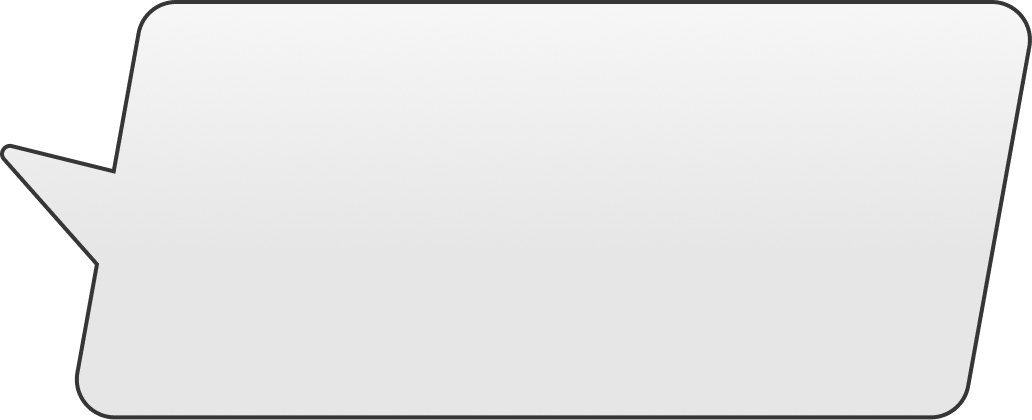
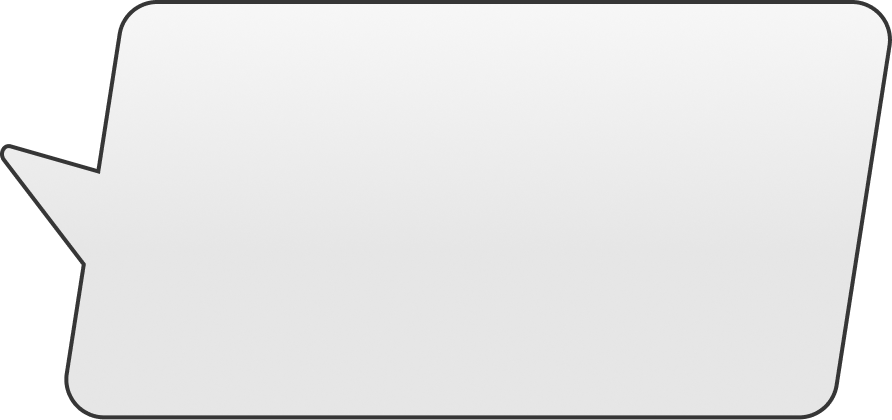
교환소 에셋 변경

diff --git a/src/pages/WeeklyPage.jsx b/src/pages/WeeklyPage.jsx
@@ -8,7 +8,7 @@ const gradeColor = (g) => GRADE_TABLE.find((x) => x.grade === g)?.color ?? '#9ca
 
 function Pedestal({ item }) {
   return (
-    <div className="relative w-[24%] flex-none">
+    <div className="relative w-[22%] flex-none">
       {/* 캡슐 — 아이템보다 위 레이어 */}
       <img src="/assets/ui/Pedestal.png" alt=""
            className="relative z-10 block w-full select-none" draggable={false} />
@@ -23,6 +23,7 @@ function Pedestal({ item }) {
     </div>
   )
 }
+
 export default function WeeklyPage() {
   const navigate = useNavigate()
   const [data, setData] = useState(null)
@@ -74,9 +75,9 @@ export default function WeeklyPage() {
   const slots = Array.from({ length: 7 }, (_, i) => current.items[i] ?? null)
 
   return (
-    <div className="flex h-full flex-col px-[4%] py-[3%]">
+    <div className="flex h-full max-h-full min-h-0 flex-col overflow-hidden px-[4%] py-[3%]">
 
-       {/* ── 상단 줄: 너트 / 도움말 ── */}
+      {/* ── 상단 줄: 너트 / 도움말 ── */}
       <div className="flex flex-none items-start justify-between">
         <NutsBar value={data.nuts} widthClass="w-[32%]" textClass="text-[18px]" />
         {/* 도움말 버튼 — 주간평가용 모달 만들면 onClick 연결 */}
@@ -86,34 +87,38 @@ export default function WeeklyPage() {
       </div>
 
       {/* ── 제목 ── */}
-      <h2 className="mt-[6%] flex-none text-center font-galmuri9 text-[26px] font-bold text-accent-2 [text-shadow:_-1.5px_0_white,_0_1.5px_white,_1.5px_0_white,_0_-1.5px_white]">
+      <h2 className="mt-[3%] flex-none text-center font-galmuri9 text-[26px] font-bold text-accent-2 [text-shadow:_-1.5px_0_white,_0_1.5px_white,_1.5px_0_white,_0_-1.5px_white]">
         주간 평가
       </h2>
 
-      {/* ── 마스코트 + 말풍선 ── */}
-      <div className="mt-[20%] flex flex-none items-start">
-        <img src="/assets/char/hakase_test.png" alt=""
-             className="pixel w-[30%] flex-none select-none" draggable={false} />
+      <div className="min-h-0 flex-[1.4]" />
 
-        <div className="relative mt-[10%] min-w-0 flex-1">
+      {/* ── 마스코트 + 말풍선 ── */}
+      <div className="flex flex-none items-start">
+        <img src="/assets/char/hakase_test.png" alt=""
+             className="pixel w-[26%] flex-none select-none" draggable={false} />
+
+        <div className="relative mt-[6%] w-[58%] flex-none">
           <img src="/assets/ui/TestBubble.png" alt=""
-               className="block w-full select-none " draggable={false} />
-          <div className="absolute inset-0 flex flex-col items-center justify-center px-[12%] text-center">
-            <p className="font-galmuri11 text-[15px] leading-relaxed text-ink">
+               className="block w-full select-none" draggable={false} />
+          <div className="absolute inset-y-0 left-[16%] right-[6%] flex flex-col items-center justify-center text-center">
+            <p className="font-galmuri11 text-[12px] leading-relaxed text-ink">
               이번 주 주간평가<br />보너스 아이템은...
             </p>
-            <p className="mt-1 font-galmuri9 text-[20px] font-bold text-white">
+            <p className="mt-1 font-galmuri9 text-[17px] font-bold text-white">
               <span className="[text-shadow:_-1.5px_0_var(--color-accent-2),_0_1.5px_var(--color-accent-2),_1.5px_0_var(--color-accent-2),_0_-1.5px_var(--color-accent-2)]">
                 {current.bonusLabel}
               </span>
-              <span className="ml-1 font-galmuri11 text-[15px] font-normal text-ink">(이)라네..</span>
+              <span className="ml-1 font-galmuri11 text-[13px] font-normal text-ink">(이)라네..</span>
             </p>
           </div>
         </div>
       </div>
 
+      <div className="min-h-0 flex-1" />
+
       {/* ── 단상 7개 (위 4 / 아래 3) ── */}
-      <div className="mt-[7%] flex flex-none flex-col items-center">
+      <div className="flex flex-none flex-col items-center">
         <div className="flex w-full justify-center gap-[3%]">
           {slots.slice(0, 4).map((it, i) => <Pedestal key={i} item={it} />)}
         </div>
@@ -122,37 +127,44 @@ export default function WeeklyPage() {
         </div>
       </div>
 
-      <p className="mt-[3%] flex-none text-center font-galmuri11 text-[9px] text-black">
+      <p className="mt-[2%] flex-none text-center font-galmuri11 text-[9px] text-black">
         이번 주 아이템 {current.itemCount}개
         {current.bonusCount > 0 && ` · 보너스 +${current.bonusCount}`}
       </p>
 
-      {/* ── 평가 시작 버튼 — 에셋 나오면 <img>로 교체 ── */}
-      <div className="mt-[4%] flex flex-none flex-col items-center">
+      <div className="min-h-0 flex-[0.8]" />
+
+      {/* ── 평가 시작 버튼 ── */}
+      <div className="flex flex-none flex-col items-center">
         {current.claimed ? (
-          <div className="w-[70%] rounded-full border-2 border-border bg-surface-2 py-3 text-center font-galmuri9 text-[13px] font-bold text-ink-dim">
-            이번 주 평가 완료
+          <div className="w-[54%] opacity-60">
+            <img src="/assets/ui/TestComplete.png" alt="이번 주 평가 완료"
+                 className="block w-full select-none" draggable={false} />
           </div>
         ) : (
           <button
             onClick={handleStart}
             disabled={!current.claimable || busy}
-            className="w-[70%] rounded-full border-2 border-line bg-accent py-3 font-galmuri9 text-[16px] font-bold text-accent-2 shadow-[3px_3px_0_rgba(0,0,0,0.25)] disabled:border-border disabled:bg-surface-2 disabled:text-ink-dim disabled:shadow-none"
+            aria-label={busy ? '평가 중' : '평가 시작'}
+            className="btn-icon w-[54%] transition-opacity disabled:opacity-40"
           >
-            {busy ? '평가 중...' : '평가 시작!'}
+            <img src="/assets/ui/TestStart.png" alt="평가 시작"
+                 className="block w-full select-none" draggable={false} />
           </button>
         )}
 
         {!current.claimed && !current.isSunday && (
-          <p className="mt-2 text-center font-galmuri11 text-[9px] text-ink-dim">
+          <p className="mt-1.5 text-center font-galmuri11 text-[9px] text-ink-dim">
             평가는 일요일에 열려요
           </p>
         )}
       </div>
 
+      <div className="min-h-0 flex-[0.6]" />
+
       {/* ── 뒤로가기 ── */}
-      <div className="mt-auto flex flex-none items-center pt-[3%]">
-        <button onClick={() => navigate('/')} aria-label="홈으로" className="w-[13%]">
+      <div className="flex flex-none items-center">
+        <button onClick={() => navigate('/')} aria-label="홈으로" className="btn-icon w-[13%]">
           <img src="/assets/ui/Back.png" alt="" className="block w-full select-none" draggable={false} />
         </button>
       </div>

diff --git a/src/pages/TradePage.jsx b/src/pages/TradePage.jsx
@@ -148,20 +148,29 @@ export default function TradePage() {
       </h2>
 
       {/* ── 교환 카드 ── */}
-      <div className="mt-[28%] flex-none rounded-[16px] bg-surface p-[6%] shadow-[3px_3px_0_rgba(0,0,0,0.15)]">
+      <div className="mt-[23%] flex-none rounded-[16px] bg-surface p-[6%] shadow-[3px_3px_0_rgba(0,0,0,0.15)]">
         <div className="flex items-start justify-between">
 
           {/* 아이템 슬롯 */}
-          <button onClick={() => setPicker('item')}
-                  className="btn-icon flex w-[38%] flex-col items-center">
+          <button onClick={() => setPicker('item')} aria-label="아이템 선택"
+                  className="btn-icon flex w-[34%] flex-col items-center">
             <div className="flex aspect-square w-full items-center justify-center overflow-hidden rounded-full border-2 border-border bg-surface-2 p-[12%]">
-              {selectedItem ? (
+              {selectedItem && (
                 <img src={selectedItem.image_url} alt={selectedItem.name}
                      className="pixel max-h-full max-w-full object-contain" draggable={false} />
-              ) : null}
+              )}
             </div>
-            <span className="mt-[12%] w-full truncate rounded-full border-2 border-border bg-surface-2 py-1 text-center font-galmuri11 text-[11px] text-ink">
-              {selectedItem ? selectedItem.name : '아이템 선택'}
+
+            <span className="relative mt-[12%] block w-full">
+              <img src="/assets/ui/SelectItem.png" alt=""
+                   className="block w-full select-none" draggable={false} />
+              <span className="absolute inset-x-[8%] inset-y-0 flex items-center justify-center">
+                <span className={`w-full truncate text-center font-galmuri11 text-[14px] ${
+                  selectedItem ? 'text-ink' : 'text-ink-dim'
+                }`}>
+                  {selectedItem ? selectedItem.name : '아이템 선택'}
+                </span>
+              </span>
             </span>
           </button>
 
@@ -169,30 +178,42 @@ export default function TradePage() {
           <span className="mt-[16%] font-galmuri9 text-[22px] text-ink">▶</span>
 
           {/* 친구 슬롯 */}
-          <button onClick={() => setPicker('friend')}
-                  className="btn-icon flex w-[38%] flex-col items-center">
+          <button onClick={() => setPicker('friend')} aria-label="친구 선택"
+                  className="btn-icon flex w-[34%] flex-col items-center">
             <div className="flex aspect-square w-full items-center justify-center overflow-hidden rounded-full border-2 border-border bg-surface-2 p-[12%]">
-              {selectedFriend ? (
+              {selectedFriend && (
                 <img src="/assets/char/Portrait.png" alt=""
                      className="h-full w-full rounded-full object-cover" draggable={false} />
-              ) : null}
+              )}
             </div>
-            <span className="mt-[12%] w-full truncate rounded-full border-2 border-border bg-surface-2 py-1 text-center font-galmuri11 text-[11px] text-ink">
-              {selectedFriend ? label(selectedFriend) : '친구 선택'}
+
+            <span className="relative mt-[12%] block w-full">
+              <img src="/assets/ui/SelectFriend.png" alt=""
+                   className="block w-full select-none" draggable={false} />
+              <span className="absolute inset-x-[8%] inset-y-0 flex items-center justify-center">
+                <span className={`w-full truncate text-center font-galmuri11 text-[14px] ${
+                  selectedFriend ? 'text-ink' : 'text-ink-dim'
+                }`}>
+                  {selectedFriend ? label(selectedFriend) : '친구 선택'}
+                </span>
+              </span>
             </span>
           </button>
         </div>
 
-        {/* 전송 버튼 — 에셋 나오면 <img>로 교체 */}
+        {/* 전송 버튼 */}
         <button onClick={handleTrade}
                 disabled={!selectedFriend || !selectedItem || busy}
-                className="mx-auto mt-[9%] block w-[56%] rounded-full border-2 border-line bg-accent py-2.5 font-galmuri9 text-[18px] font-bold text-ink shadow-[2px_2px_0_rgba(0,0,0,0.25)] disabled:border-border disabled:bg-surface-2 disabled:text-ink-dim disabled:shadow-none">
-          {busy ? '보내는 중...' : '전송!'}
+                aria-label="전송"
+                className="btn-icon mx-auto mt-[9%] block w-[48%] disabled:opacity-40">
+          <img src="/assets/ui/Send.png" alt="전송"
+               className="block w-full select-none" draggable={false} />
         </button>
       </div>
 
+
       {/* ── 박사 + 말풍선 ── */}
-      <div className="mt-[8%] flex flex-none items-start">
+      <div className="mt-[5%] flex flex-none items-start">
         <img src="/assets/char/hakase_test.png" alt=""
              className="pixel w-[28%] flex-none select-none" draggable={false} />
 
@@ -200,7 +221,7 @@ export default function TradePage() {
           <img src="/assets/ui/TestBubble.png" alt=""
                className="block w-full select-none" draggable={false} />
           <div className="absolute inset-x-0 bottom-[14%] left-[16%] top-0 flex items-center justify-center pr-[6%]">
-            <p className="text-center font-galmuri11 text-[11px] leading-relaxed text-ink">
+            <p className="text-center font-galmuri11 text-[13px] leading-relaxed text-ink">
               우주는 참 넓지않나<br />.......<br />오늘은 누구와 교환할건가?
             </p>
           </div>
